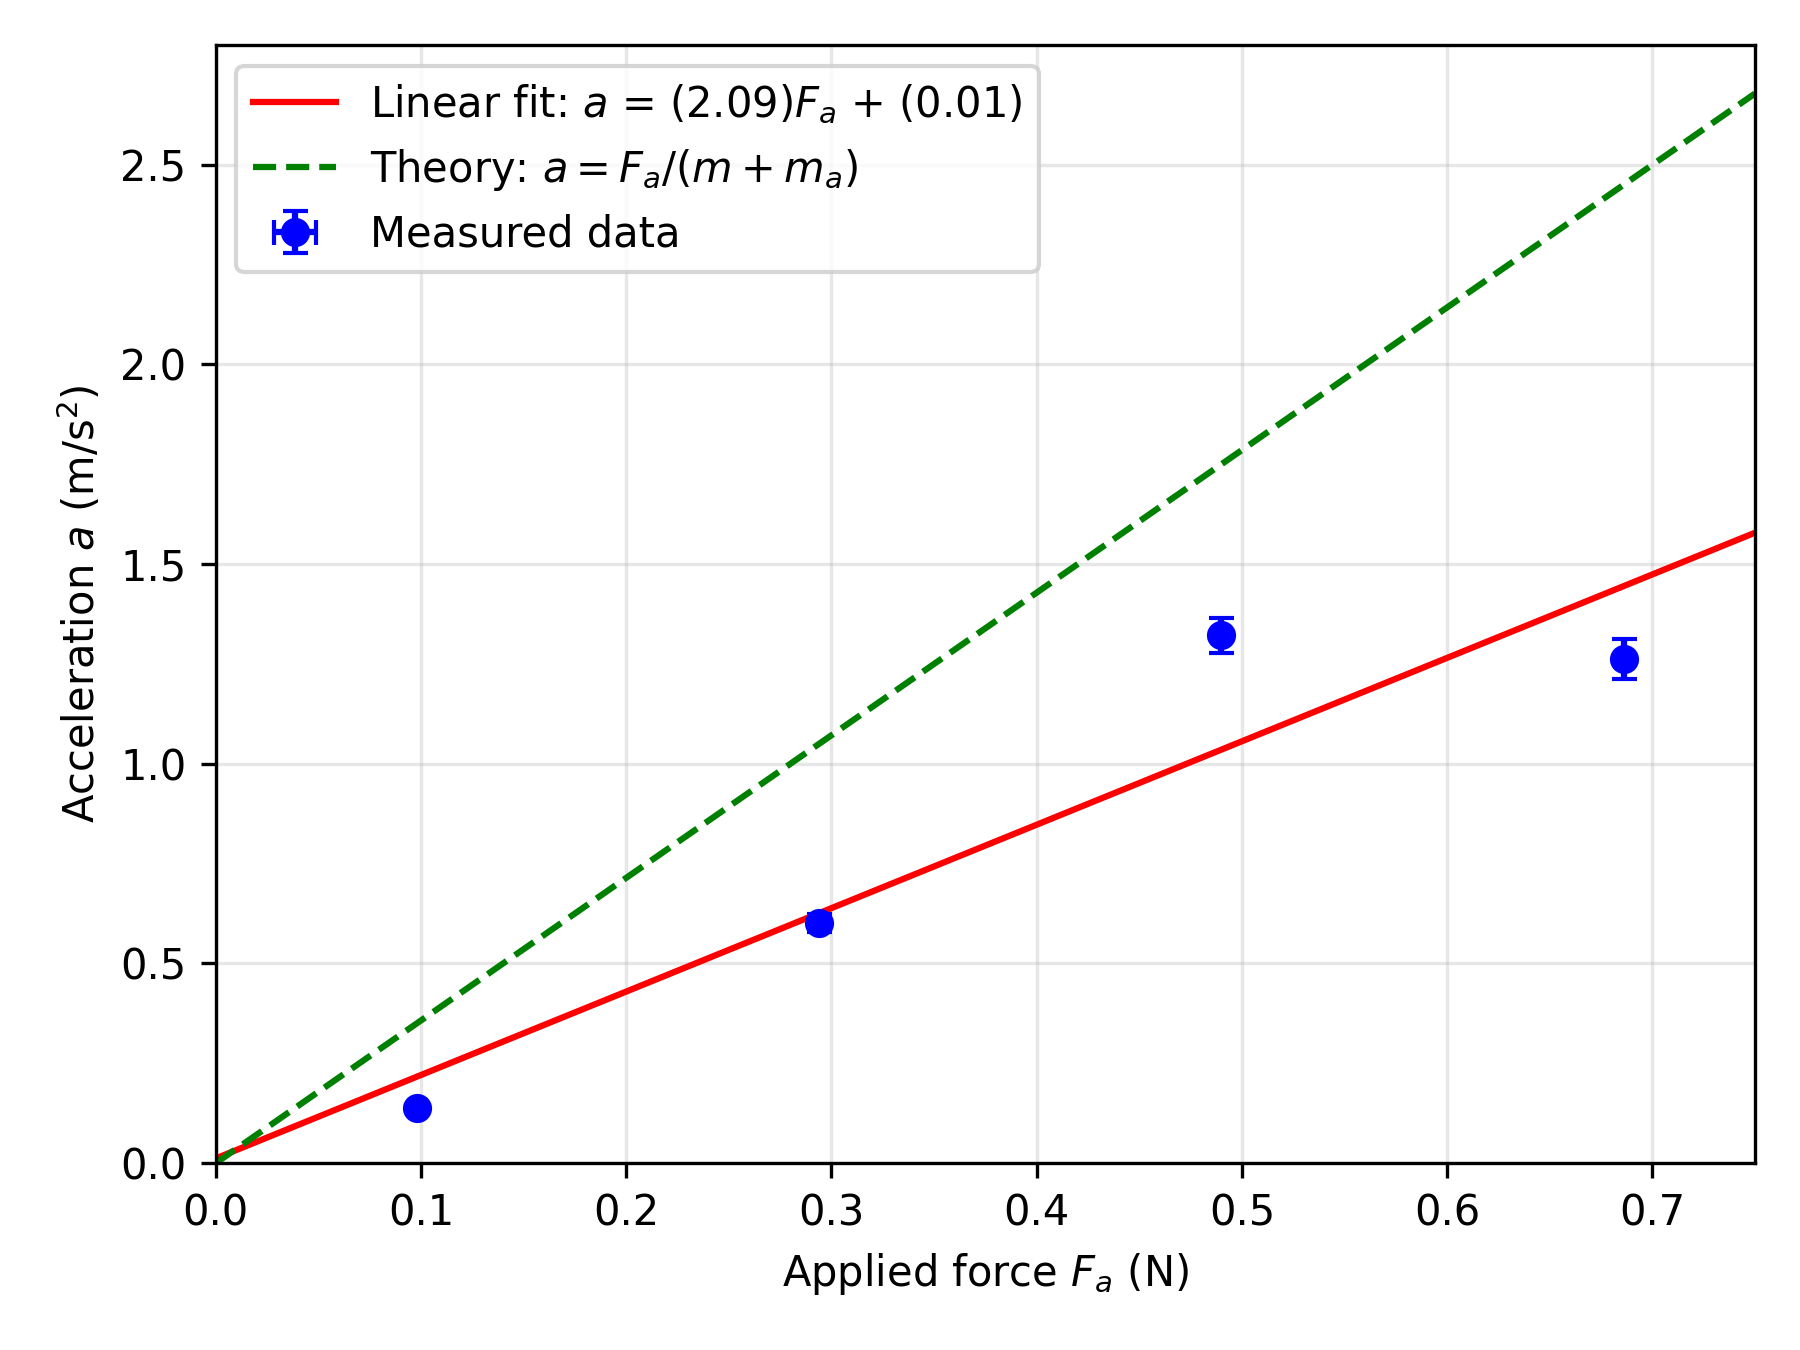
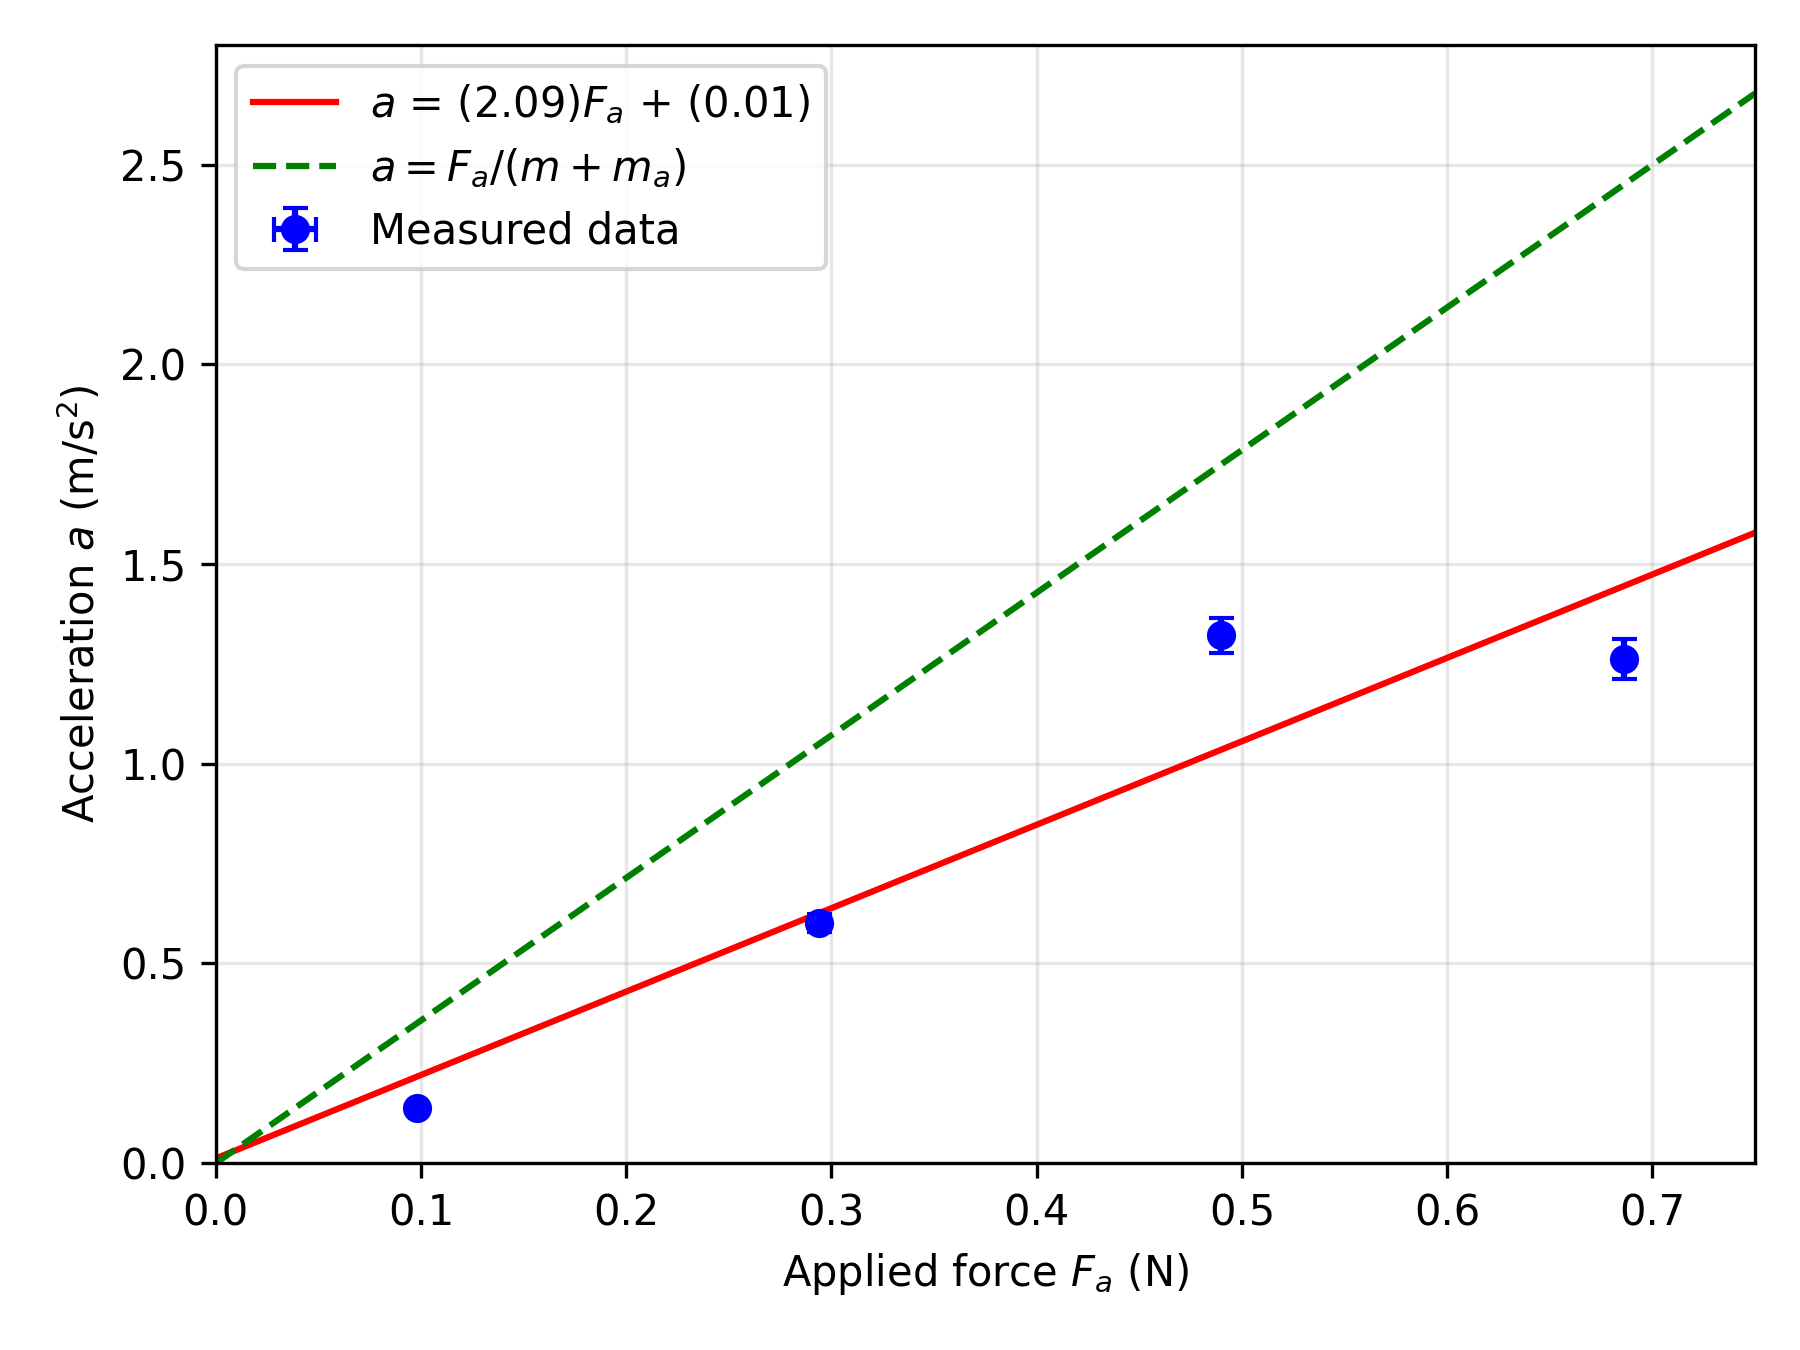
Small Changes

Changed region(s): [[0.1244, 0.0622, 0.4667, 0.2178], [0.4978, 0.0622, 0.5911, 0.0933]]

diff --git a/code_exp3.py b/code_exp3.py
@@ -7,34 +7,26 @@ Happines arrive, hunger like a storm
 import numpy as np
 import matplotlib.pyplot as plt
 
-# ------------------------------------------------------------------
-# DATA (SI units).  a values are taken from Table 3 of the report.
-# ------------------------------------------------------------------
-g = 9.8                                              # m/s^2
-L2 = 0.100                                           # m, flag length
+g = 9.8
+L2 = 0.100
 
-# Series 1: m_a changes, m + m_a = 0.280 kg
-ma1 = np.array([0.010, 0.030, 0.050, 0.070])         # kg
-t1_s1 = np.array([0.423, 0.229, 0.230, 0.180])       # s
-t2_s1 = np.array([0.216, 0.109, 0.082, 0.073])       # s
-t3_s1 = np.array([1.651, 0.799, 0.594, 0.645])       # s
-a1 = np.array([0.137, 0.602, 1.322, 1.262])          # m/s^2
-F1 = ma1 * g                                         # N
+ma1 = np.array([0.010, 0.030, 0.050, 0.070])
+t1_s1 = np.array([0.423, 0.229, 0.230, 0.180])
+t2_s1 = np.array([0.216, 0.109, 0.082, 0.073])
+t3_s1 = np.array([1.651, 0.799, 0.594, 0.645])
+a1 = np.array([0.137, 0.602, 1.322, 1.262])
+F1 = ma1 * g
 
-# Series 2: m changes, m_a = 0.010 kg
-ma2 = 0.010                                          # kg
-m2 = np.array([0.270, 0.250, 0.230, 0.210])          # kg
-t1_s2 = np.array([0.323, 0.302, 0.282, 0.271])       # s
-t2_s2 = np.array([0.158, 0.151, 0.141, 0.134])       # s
-t3_s2 = np.array([1.156, 1.111, 1.018, 0.975])       # s
-a2 = np.array([0.279, 0.298, 0.348, 0.387])          # m/s^2
+ma2 = 0.010
+m2 = np.array([0.270, 0.250, 0.230, 0.210])
+t1_s2 = np.array([0.323, 0.302, 0.282, 0.271])
+t2_s2 = np.array([0.158, 0.151, 0.141, 0.134])
+t3_s2 = np.array([1.156, 1.111, 1.018, 0.975])
+a2 = np.array([0.279, 0.298, 0.348, 0.387])
 
-# ------------------------------------------------------------------
-# READING UNCERTAINTIES  (!!! check these against your Table 1 !!!)
-# ------------------------------------------------------------------
-dt = 0.001        # s,  photogate timer resolution
-dL2 = 0.0005      # m,  reading uncertainty of the length of the flag
-dm = 0.0001       # kg, reading uncertainty of the masses (0.1 g)
+dt = 0.001
+dL2 = 0.0005
+dm = 0.0001
 
 
 def delta_a(t1, t2, t3, a):
@@ -93,9 +85,9 @@ xx = np.linspace(0, 0.75, 100)
 ax.errorbar(F1, a1, xerr=dF1, yerr=da1, fmt='o', color='blue', capsize=3,
             label='Measured data')
 ax.plot(xx, k1 * xx + b1, color='red',
-        label=f'Linear fit: $a$ = ({k1:.2f})$F_a$ + ({b1:.2f})')
+        label=f'$a$ = ({k1:.2f})$F_a$ + ({b1:.2f})')
 ax.plot(xx, k1_th * xx, color='green', linestyle='--',
-        label=r'Theory: $a = F_a/(m+m_a)$')
+        label=r'$a = F_a/(m+m_a)$')
 ax.set_xlabel(r'Applied force $F_a$ (N)')
 ax.set_ylabel(r'Acceleration $a$ (m/s$^2$)')
 ax.set_xlim(0, 0.75)
@@ -114,7 +106,7 @@ mm = np.linspace(0.19, 0.29, 100)
 axa.errorbar(m2, a2, xerr=dm, yerr=da2, fmt='o', color='blue', capsize=3,
              label='Measured data')
 axa.plot(mm, ma2 * g / (mm + ma2), color='green', linestyle='--',
-         label=r'Theory: $a = m_a g/(m+m_a)$')
+         label=r' $a = m_a g/(m+m_a)$')
 axa.set_xlabel(r'Glider mass $m$ (kg)')
 axa.set_ylabel(r'Acceleration $a$ (m/s$^2$)')
 axa.set_title('(a)')
@@ -124,9 +116,9 @@ axa.legend()
 axb.errorbar(m2, 1 / a2, xerr=dm, yerr=d_inv_a2, fmt='o', color='blue',
              capsize=3, label='Measured data')
 axb.plot(mm, k2 * mm + b2, color='red',
-         label=f'Linear fit: 1/$a$ = ({k2:.1f})$m$ + ({b2:.2f})')
+         label=f'1/$a$ = ({k2:.1f})$m$ + ({b2:.2f})')
 axb.plot(mm, k2_th * mm + b2_th, color='green', linestyle='--',
-         label=r'Theory: 1/$a$ = $m/(m_a g)$ + 1/$g$')
+         label=r'1/$a$ = $m/(m_a g)$ + 1/$g$')
 axb.set_xlabel(r'Glider mass $m$ (kg)')
 axb.set_ylabel(r'1/$a$ (s$^2$/m)')
 axb.set_title('(b)')
